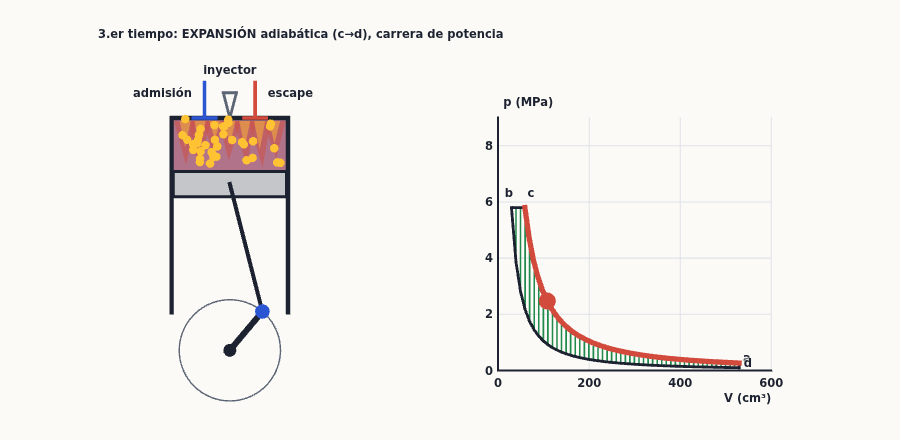
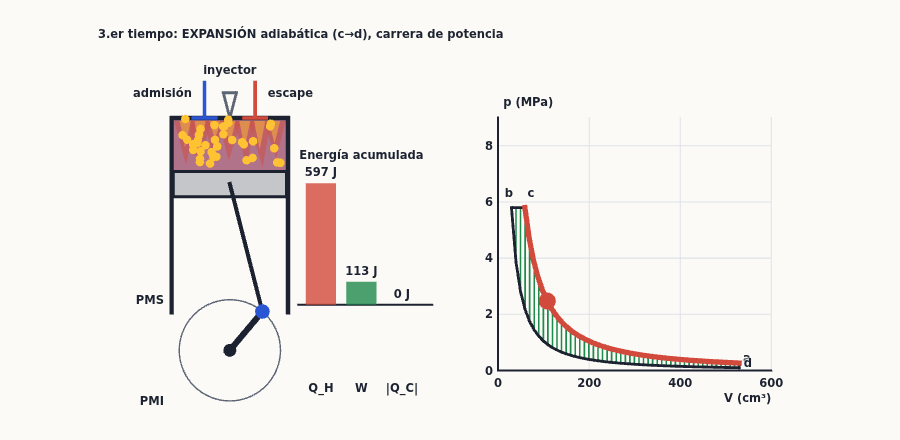
Motor Diesel: modo Otto con el mismo r y el mismo calor, barras de energía acumulada (Q_H, W, |Q_C|), régimen en rpm con potencia y par, marcas PMS/PMI
Claude-Session: https://claude.ai/code/session_013NPRw5Yt76X8T2S3CHRMJi

diff --git a/assets/escenas/motor-diesel.js b/assets/escenas/motor-diesel.js
@@ -4,26 +4,33 @@
    c→d expansión adiabática, d→a enfriamiento a volumen constante (escape; sale |QC| = n·Cv·(Td − T0), Cv = 5R/2). Tb = T0·r^(γ−1), Tc = rc·Tb, Td = T0·rc^γ.
    e = W/QH = 1 − (rc^γ − 1)/(r^(γ−1)·γ·(rc − 1)); con rc → 1 da el Otto 1 − r^(1−γ). Carnot entre T0 y Tc: 1 − T0/Tc.
    El dibujo es un mecanismo biela-manivela real (R = 1, L = 2,6): V se calcula de la posición del pistón, así que dibujo y diagrama van siempre a la par.
+   Modo Otto (selector): mismo r y el mismo calor Q_H que el Diesel, pero con la combustión a V constante en el punto muerto: Tc = Tb + Q_H/(n·Cv), pc = pb·Tc/Tb, e = 1 − r^(1−γ).
+   Barras de energía acumulada (Q_H entrado, W, |Q_C|) por integración numérica de p dV y de dQ = n·Cv·dT + p dV a lo largo del ángulo; potencia P = W·rpm/120 y par medio M = W/4π (4 tiempos).
    Ángulo del cigüeñal φ (0-720°): 0-180 admisión (p0), 180-360 compresión, 360-540 combustión (p = pb mientras V ≤ rc·Vb) y expansión, 540-560 se abre el escape
    (p cae a volumen casi constante), 560-720 escape (p0). Asas: pasador del cigüeñal (gira el motor), culata (r) y punto c del diagrama (rc). */
 Interactivos.registrar('motor-diesel', function (c) {
   var T = c.THREE, H = c.H, P = c.colores(), listo = false, clave = '';
   var gam = 1.4, Rg = 8.314, p0 = 101325, T0 = 300, Vd = 5e-4, VMAX = 600, PMAX = 9, TOPE = 2300;
-  var r = 18, rc = 2, fi = 400, rep, sR, sRc;
+  var r = 18, rc = 2, fi = 400, rep, sR, sRc, mod = 0, rpm = 2000;
   var CX = -4.3, CY = -2.3, RC = 1.0, LB = 2.6, WL = 1.15, TOPE_P = 0.25, PH = 0.5;
   var PX0 = 1.0, PW = 5.4, PY0 = -2.7, PHH = 5.0;
   var yTDC = CY + RC + LB, crownTDC = yTDC + TOPE_P, carrera = 2 * RC;
-  var fijos = [], ticks = [], eEt, eAd, eEs, eIn, eA, eB, eC, eD, eX, eY;
+  var BASE = -1.4, BX = [-2.5, -1.7, -0.9], fijos = [], ticks = [], eEt, eAd, eEs, eIn, eA, eB, eC, eD, eX, eY, ePS, ePI, eBT, eBn = [], eBv = [], barras = [];
   var NP = 36, parts = [], rnd = [], llamaE, llamaI, brillo, biela, brazo, pin, centro, pistonR, pistonB, gasR, culata, valA, valE, inyec, chorro, ciclo, actual, sombra, pto, ptoC, ptoR;
-  var l1 = c.lectura(''), l2 = c.lectura(''), l3 = c.lectura(''), l4 = c.lectura('');
+  var l1 = c.lectura(''), l2 = c.lectura(''), l3 = c.lectura(''), l4 = c.lectura(''), l5 = c.lectura('');
   var fm = function (x, d) { return x.toFixed(d).replace('.', ',').replace(/^-/, '−'); };
   function gx(V) { return PX0 + V / VMAX * PW; }
   function gy(p) { return PY0 + p / PMAX * PHH; }
   function ciclo_() {
     var Vb = Vd / (r - 1), Va = Vb * r, n = p0 * Va / (Rg * T0), pb = p0 * Math.pow(r, gam), Tb = T0 * Math.pow(r, gam - 1), Tc = rc * Tb;
     var pd = pb * Math.pow(rc / r, gam), Td = T0 * Math.pow(rc, gam), Qin = n * 3.5 * Rg * (Tc - Tb), Qout = n * 2.5 * Rg * (T0 - Td), W = Qin + Qout;
-    var e = 1 - (Math.pow(rc, gam) - 1) / (Math.pow(r, gam - 1) * gam * (rc - 1));
-    return { Vb: Vb, Va: Va, n: n, pb: pb, Tb: Tb, Tc: Tc, pd: pd, Td: Td, Qin: Qin, Qout: Qout, W: W, e: e, eO: 1 - Math.pow(r, 1 - gam), eC: 1 - T0 / Tc, Vc: rc * Vb };
+    var eD = 1 - (Math.pow(rc, gam) - 1) / (Math.pow(r, gam - 1) * gam * (rc - 1)), eO = 1 - Math.pow(r, 1 - gam);
+    var K = { Vb: Vb, Va: Va, n: n, pb: pb, pc: pb, Tb: Tb, Tc: Tc, pd: pd, Td: Td, Qin: Qin, Qout: Qout, W: W, e: eD, eOtro: eO, Vc: rc * Vb };
+    if (mod === 1) {
+      var Tc2 = Tb + Qin / (n * 2.5 * Rg), Td2 = Tc2 * Math.pow(r, 1 - gam), Qo2 = n * 2.5 * Rg * (T0 - Td2);
+      K.Tc = Tc2; K.pc = pb * Tc2 / Tb; K.Vc = Vb; K.pd = K.pc * Math.pow(r, -gam); K.Td = Td2; K.Qout = Qo2; K.W = Qin + Qo2; K.e = K.W / Qin; K.eOtro = eD;
+    }
+    K.eC = 1 - T0 / K.Tc; return K;
   }
   function hVis(rr) { return 0.5 + 0.04 * (24 - rr); }  /* altura de la cámara con el pistón arriba: exagerada para que se vea (la real sería carrera/(r − 1)) */
   function mecanismo(f) {
@@ -34,10 +41,23 @@ Interactivos.registrar('motor-diesel', function (c) {
     var m = mecanismo(f), V = K.Vb + Vd * m.xd / carrera, p, Tg, et;
     if (f < 180) { et = 0; p = p0; Tg = T0; }
     else if (f < 360) { et = 1; p = p0 * Math.pow(K.Va / V, gam); Tg = p * V / (K.n * Rg); }
-    else if (f < 540) { if (V <= K.Vc * 1.0000001) { et = 2; p = K.pb; } else { et = 3; p = K.pb * Math.pow(K.Vc / V, gam); } Tg = p * V / (K.n * Rg); }
+    else if (f < 540) {
+      if (mod === 1 && f < 372) { var V7 = K.Vb + Vd * mecanismo(372).xd / carrera; et = 2; p = K.pb + (K.pc * Math.pow(K.Vb / V7, gam) - K.pb) * (f - 360) / 12; }
+      else if (mod === 0 && V <= K.Vc * 1.0000001) { et = 2; p = K.pc; } else { et = 3; p = K.pc * Math.pow(K.Vc / V, gam); }
+      Tg = p * V / (K.n * Rg);
+    }
     else if (f < 560) { et = 4; p = K.pd + (p0 - K.pd) * (f - 540) / 20; Tg = p * V / (K.n * Rg); }
     else { et = 5; p = p0; Tg = T0; }
     return { m: m, V: V, p: p, T: Tg, et: et };
+  }
+  function acum(f1, K) {
+    var w = 0, qi = 0, qo = 0, s0 = estado(0, K), pp = s0.p, Vp = s0.V, Tp = s0.T, pet = s0.et, fs = [], f, s1, dW, dQ;
+    for (f = 1; f < f1; f++) fs.push(f); if (f1 > 0) fs.push(f1);
+    fs.forEach(function (ff) {
+      s1 = estado(ff, K); dW = (s1.p + pp) / 2 * (s1.V - Vp); dQ = K.n * 2.5 * Rg * (s1.T - Tp) + dW; w += dW;
+      if ((s1.et === 2 || pet === 2) && dQ > 0) qi += dQ; if ((s1.et === 4 || pet === 4) && dQ < 0) qo -= dQ; pet = s1.et; pp = s1.p; Vp = s1.V; Tp = s1.T;
+    });
+    return { w: w, qi: qi, qo: qo };
   }
   function rect(col, op, z) {
     var q = new T.Mesh(new T.PlaneGeometry(1, 1), new T.MeshBasicMaterial({ color: col, transparent: true, opacity: op })); q.position.z = z;
@@ -52,10 +72,11 @@ Interactivos.registrar('motor-diesel', function (c) {
   }
   function add(o) { c.scene.add(o); fijos.push(o); return o; }
   function construir() {
-    var k = P.fg + P.bg + P.S + P.W + P.L + P.A + P.acc; if (k === clave && ciclo) return; clave = k;
+    var K0 = ciclo_(); PMAX = mod === 0 ? 9 : Math.max(4, Math.ceil(K0.pc / 1e6 * 1.05 / 4) * 4); var TP = mod === 0 ? [0, 2, 4, 6, 8] : [0, PMAX / 4, PMAX / 2, 3 * PMAX / 4, PMAX];
+    var k = P.fg + P.bg + P.S + P.W + P.L + P.A + P.acc + mod + PMAX; if (k === clave && ciclo) return; clave = k;
     fijos.forEach(function (o) { c.scene.remove(o); }); fijos = [];
     c.vista(-6.8, 6.9, -3.75, 4.3); var w = 0.04, i;
-    var rej = []; [0, 200, 400, 600].forEach(function (v) { rej.push([[gx(v), PY0], [gx(v), PY0 + PHH]]); }); [0, 2, 4, 6, 8].forEach(function (v) { rej.push([[PX0, gy(v)], [PX0 + PW, gy(v)]]); });
+    var rej = []; [0, 200, 400, 600].forEach(function (v) { rej.push([[gx(v), PY0], [gx(v), PY0 + PHH]]); }); TP.forEach(function (v) { rej.push([[PX0, gy(v)], [PX0 + PW, gy(v)]]); });
     var a = add(H.cinta(T, rej, P.bd, w * 0.5)); a.position.z = -0.3;
     var b = add(H.cinta(T, [[[PX0, PY0], [PX0 + PW, PY0]], [[PX0, PY0], [PX0, PY0 + PHH]]], P.fg, w)); b.position.z = -0.2;
     var cir = []; for (i = 0; i <= 72; i++) cir.push([CX + RC * Math.sin(2 * Math.PI * i / 72), CY + RC * Math.cos(2 * Math.PI * i / 72)]);
@@ -70,15 +91,17 @@ Interactivos.registrar('motor-diesel', function (c) {
     sombra = add(H.cinta(T, [], P.L, w * 0.8)); sombra.position.z = 0.02;
     ciclo = add(H.cinta(T, [], P.fg, w * 1.4)); ciclo.position.z = 0.1; actual = add(H.cinta(T, [], P.W, w * 2.6)); actual.position.z = 0.14;
     pto = add(H.punto(T, 0, 0, w * 4.2, P.W)); pto.position.z = 0.5;
+    add(H.cinta(T, [[[-2.95, BASE], [-0.3, BASE]]], P.fg, w)).position.z = -0.2;
+    barras = [rect(P.W, 0.8, 0.05), rect(P.L, 0.8, 0.05), rect(P.S, 0.8, 0.05)];
     parts = []; for (i = 0; i < NP; i++) { var q = add(H.punto(T, 0, 0, w * 2.1, P.S)); q.position.z = 0.3; parts.push(q); }
     ticks.forEach(function (e) { e.ver(false); }); var j = 0, tx;
     [0, 200, 400, 600].forEach(function (v) { tx = ticks[j] || (ticks[j] = c.etiqueta('', 0, 0, 'c')); j++; tx.poner(fm(v, 0)); tx.mover(gx(v), PY0 - 0.25); tx.ver(true); });
-    [0, 2, 4, 6, 8].forEach(function (v) { tx = ticks[j] || (ticks[j] = c.etiqueta('', 0, 0, 'r')); j++; tx.poner(fm(v, 0)); tx.mover(PX0 - 0.1, gy(v)); tx.ver(true); });
+    TP.forEach(function (v) { tx = ticks[j] || (ticks[j] = c.etiqueta('', 0, 0, 'r')); j++; tx.poner(fm(v, 0)); tx.mover(PX0 - 0.1, gy(v)); tx.ver(true); });
     eX.poner('V (cm³)'); eX.mover(PX0 + PW, PY0 - 0.55); eY.poner('p (MPa)'); eY.mover(PX0 + 0.1, PY0 + PHH + 0.3);
   }
   function calc() {
     if (!listo) return; construir(); var K = ciclo_(), S = estado(fi, K), m = S.m, i, hmin = hVis(r), headY = crownTDC + hmin;
-    var xl = CX - WL, xr = CX + WL, x0 = CX - WL, x1 = CX + WL;
+    var pcM = K.pc / 1e6, xl = CX - WL, xr = CX + WL, x0 = CX - WL, x1 = CX + WL;
     culata.set([[[xl, -1.55], [xl, headY], [xr, headY], [xr, -1.55]]]);
     pistonR.poner(x0 + 0.03, m.crown - PH, x1 - 0.03, m.crown); pistonB.set([[[x0 + 0.03, m.crown - PH], [x0 + 0.03, m.crown], [x1 - 0.03, m.crown], [x1 - 0.03, m.crown - PH], [x0 + 0.03, m.crown - PH]]]);
     var u = Math.max(0, Math.min(1, (S.T - T0) / (TOPE - T0))), col = new T.Color(P.S).lerp(new T.Color(P.W), u);
@@ -86,11 +109,12 @@ Interactivos.registrar('motor-diesel', function (c) {
     var abA = S.et === 0 ? 0.16 : 0, abE = S.et === 5 || S.et === 4 ? 0.16 : 0;
     valA.set([[[CX - 0.5, headY + 0.7 - abA], [CX - 0.5, headY - abA]], [[CX - 0.72, headY - abA], [CX - 0.28, headY - abA]]]);
     valE.set([[[CX + 0.5, headY + 0.7 - abE], [CX + 0.5, headY - abE]], [[CX + 0.28, headY - abE], [CX + 0.72, headY - abE]]]);
-    inyec.set([[[CX - 0.13, headY + 0.5], [CX + 0.13, headY + 0.5], [CX, headY], [CX - 0.13, headY + 0.5]]]);
+    inyec.set(mod === 0 ? [[[CX - 0.13, headY + 0.5], [CX + 0.13, headY + 0.5], [CX, headY], [CX - 0.13, headY + 0.5]]] : [[[CX - 0.07, headY + 0.5], [CX + 0.07, headY + 0.5], [CX + 0.07, headY], [CX - 0.07, headY], [CX - 0.07, headY + 0.5]]]);
+    eIn.poner(mod === 0 ? 'inyector' : 'bujía');
     // llama, gases y moléculas dentro de la cámara (todo en función de φ: al girar hacia atrás se deshace)
-    var xa = x0 + 0.12, xb = x1 - 0.12, yb = m.crown + 0.08, yt = headY - 0.06, hc = headY - m.crown, fr_ = function (z) { return z - Math.floor(z); };
+    var xa = x0 + 0.12, xb = x1 - 0.12, yb = m.crown + 0.08, yt = headY - 0.06, hc = headY - m.crown, s0o = mod === 1 ? Math.min(1, (fi - 360) / 12) : 0, fr_ = function (z) { return z - Math.floor(z); };
     var cl = new T.Color(P.W), cf = new T.Color(P.S), cm = new T.Color(P.mut), wh = new T.Color('#ffffff');
-    var s0 = S.et === 2 ? (S.V - K.Vb) / (K.Vc - K.Vb) : 1, fade = S.et === 2 ? 1 : S.et === 3 ? Math.max(0, 1 - 1.5 * Math.sqrt((S.V - K.Vc) / (K.Va - K.Vc))) : 0;
+    var s0 = S.et === 2 ? (mod === 1 ? s0o : (S.V - K.Vb) / (K.Vc - K.Vb)) : 1, fade = S.et === 2 ? 1 : S.et === 3 ? Math.max(0, 1 - 1.5 * Math.sqrt((S.V - K.Vc) / (K.Va - K.Vc))) : 0;
     var tong = [], tong2 = [], NT = 7, kk, L = S.et === 2 ? 0.55 + 0.45 * s0 : 1;
     if (fade > 0) for (kk = 0; kk < NT; kk++) {
       var xk = xa + (xb - xa) * (kk + 0.5) / NT, hw = (xb - xa) / NT * 0.75, la = hc * L * (0.6 + 0.4 * rnd[kk][0]) * (1 + 0.12 * Math.sin(fi * 0.22 + kk * 2.1)), ap = Math.max(yb, yt - la);
@@ -107,44 +131,58 @@ Interactivos.registrar('motor-diesel', function (c) {
       else pc = u < 0.3 ? cf.clone() : S.et >= 2 ? new T.Color('#ffc233') : cl.clone();
       parts[i].visible = vis; parts[i].mover(px, py); parts[i].material.color.copy(pc);
     }
-    chorro.set(S.et === 2 ? [[[CX, headY - 0.02], [CX - 0.3, Math.max(m.crown + 0.05, headY - 0.38)]], [[CX, headY - 0.02], [CX, Math.max(m.crown + 0.05, headY - 0.42)]], [[CX, headY - 0.02], [CX + 0.3, Math.max(m.crown + 0.05, headY - 0.38)]]] : []);
+    chorro.set(S.et !== 2 ? [] : mod === 0 ? [[[CX, headY - 0.02], [CX - 0.3, Math.max(m.crown + 0.05, headY - 0.38)]], [[CX, headY - 0.02], [CX, Math.max(m.crown + 0.05, headY - 0.42)]], [[CX, headY - 0.02], [CX + 0.3, Math.max(m.crown + 0.05, headY - 0.38)]]] : [[[CX, headY - 0.02], [CX - 0.12, headY - 0.16], [CX + 0.12, headY - 0.26], [CX, headY - 0.42]]]);
     biela.set([[m.pin, [CX, m.yp]]]); brazo.set([[[CX, CY], m.pin]]); pin.mover(m.pin[0], m.pin[1]);
     eAd.mover(CX - 0.75, headY + 0.5); eEs.mover(CX + 0.75, headY + 0.5); eIn.mover(CX, headY + 0.95);
-    var NOM = ['1.er tiempo: ADMISIÓN (entra aire a p₀)', '2.º tiempo: COMPRESIÓN adiabática (a→b)', '3.er tiempo: INYECCIÓN y combustión a p constante (b→c)', '3.er tiempo: EXPANSIÓN adiabática (c→d), carrera de potencia', '4.º tiempo: se abre el ESCAPE (d→a), p baja a V constante', '4.º tiempo: ESCAPE (el pistón expulsa los gases)'];
+    var NOM = ['1.er tiempo: ADMISIÓN (entra aire a p₀)', '2.º tiempo: COMPRESIÓN adiabática (a→b)', (mod === 0 ? '3.er tiempo: INYECCIÓN y combustión a p constante (b→c)' : '3.er tiempo: CHISPA y combustión a V constante (b→c)'), '3.er tiempo: EXPANSIÓN adiabática (c→d), carrera de potencia', '4.º tiempo: se abre el ESCAPE (d→a), p baja a V constante', '4.º tiempo: ESCAPE (el pistón expulsa los gases)'];
     eEt.poner(NOM[S.et]); eEt.mover(CX + 1.4, 3.95);
     // diagrama pV: ciclo ideal en MPa y cm³
-    var ab = [], cd = [], hs = [], Vb = K.Vb * 1e6, Va = K.Va * 1e6, Vc = K.Vc * 1e6, pb = K.pb / 1e6;
-    for (i = 0; i <= 50; i++) { var V1 = Vb + (Va - Vb) * i / 50; ab.push([gx(V1), gy(p0 * Math.pow(Va / V1, gam) / 1e6)]); if (i % 1 === 0) { var top = V1 <= Vc ? pb : pb * Math.pow(Vc / V1, gam); hs.push([[gx(V1), gy(p0 * Math.pow(Va / V1, gam) / 1e6)], [gx(V1), gy(top)]]); } }
-    for (i = 0; i <= 50; i++) { var V2 = Vc + (Va - Vc) * i / 50; cd.push([gx(V2), gy(pb * Math.pow(Vc / V2, gam))]); }
-    var pbc = [[gx(Vb), gy(pb)], [gx(Vc), gy(pb)]], pda = [[gx(Va), gy(K.pd / 1e6)], [gx(Va), gy(p0 / 1e6)]], pad = [[gx(Vb), gy(p0 / 1e6)], [gx(Va), gy(p0 / 1e6)]];
+    var ab = [], cd = [], hs = [], Vb = K.Vb * 1e6, Va = K.Va * 1e6, Vc = K.Vc * 1e6, pb = K.pb / 1e6, pcc = K.pc / 1e6;
+    for (i = 0; i <= 50; i++) { var V1 = Vb + (Va - Vb) * i / 50; ab.push([gx(V1), gy(p0 * Math.pow(Va / V1, gam) / 1e6)]); if (i % 1 === 0) { var top = V1 <= Vc ? pcc : pcc * Math.pow(Vc / V1, gam); hs.push([[gx(V1), gy(p0 * Math.pow(Va / V1, gam) / 1e6)], [gx(V1), gy(top)]]); } }
+    for (i = 0; i <= 50; i++) { var V2 = Vc + (Va - Vc) * i / 50; cd.push([gx(V2), gy(pcc * Math.pow(Vc / V2, gam))]); }
+    var pbc = [[gx(Vb), gy(pb)], [gx(Vc), gy(pcc)]], pda = [[gx(Va), gy(K.pd / 1e6)], [gx(Va), gy(p0 / 1e6)]], pad = [[gx(Vb), gy(p0 / 1e6)], [gx(Va), gy(p0 / 1e6)]];
     ciclo.set([ab, pbc, cd, pda]); sombra.set(hs);
     actual.set(S.et === 1 ? [ab] : S.et === 2 ? [pbc] : S.et === 3 ? [cd] : S.et === 4 ? [pda] : [pad]);
     pto.mover(gx(S.V * 1e6), gy(S.p / 1e6));
-    eA.poner('a'); eA.mover(gx(Va) + 0.15, gy(p0 / 1e6) + 0.2); eB.poner('b'); eB.mover(gx(Vb) - 0.05, gy(pb) + 0.28); eC.poner('c'); eC.mover(gx(Vc) + 0.12, gy(pb) + 0.28);
+    eA.poner('a'); eA.mover(gx(Va) + 0.15, gy(p0 / 1e6) + 0.2); eB.poner('b'); eB.mover(gx(Vb) + (mod ? 0.22 : -0.05), gy(pb) + (mod ? 0.12 : 0.28)); eC.poner('c'); eC.mover(gx(Vc) + (mod ? 0.22 : 0.12), gy(pcc) + (mod ? 0 : 0.28));
     eD.poner('d'); eD.mover(gx(Va) + 0.17, gy(K.pd / 1e6));
     [eA, eB, eC, eD].forEach(function (e) { e.ver(true); });
     var ang = 0; (function () { var lo = 0, hi = 180, th, V; for (var q = 0; q < 40; q++) { th = (lo + hi) / 2; V = K.Vb + Vd * (crownTDC - (CY + RC * Math.cos(th * Math.PI / 180) + Math.sqrt(LB * LB - RC * RC * Math.pow(Math.sin(th * Math.PI / 180), 2)) + TOPE_P)) / carrera; if (V < K.Vc) lo = th; else hi = th; } ang = (lo + hi) / 2; })();
     l1('Cigüeñal φ = ' + fm(fi, 0) + '° de 720°   ·   p = ' + fm(S.p / 1e6, 2) + ' MPa   ·   V = ' + fm(S.V * 1e6, 0) + ' cm³   ·   T del aire = ' + fm(S.T, 0) + ' K');
-    l2('Compresión: V_b = ' + fm(Vb, 1) + ' cm³ (r = ' + fm(r, 1) + '), T_b = ' + fm(K.Tb, 0) + ' K, p_b = ' + fm(pb, 2) + ' MPa  ·  la inyección dura hasta V_c = r_c·V_b = ' + fm(Vc, 1) + ' cm³ (' + fm(ang, 0) + '° tras el punto muerto), T_c = ' + fm(K.Tc, 0) + ' K');
-    l3('Calor que entra (b→c, isóbara) Q_H = ' + fm(K.Qin, 0) + ' J  ·  calor que sale (d→a, isócora) |Q_C| = ' + fm(-K.Qout, 0) + ' J  ·  trabajo por ciclo W = ' + fm(K.W, 0) + ' J (el área sombreada)');
+    l2('Compresión: V_b = ' + fm(Vb, 1) + ' cm³ (r = ' + fm(r, 1) + '), T_b = ' + fm(K.Tb, 0) + ' K, p_b = ' + fm(pb, 2) + ' MPa  ·  ' + (mod === 0 ? 'la inyección dura hasta V_c = r_c·V_b = ' + fm(Vc, 1) + ' cm³ (' + fm(ang, 0) + '° tras el punto muerto), T_c = ' + fm(K.Tc, 0) + ' K'
+      : 'la chispa salta en el punto muerto y quema a V constante: T_c = ' + fm(K.Tc, 0) + ' K, p_c = ' + fm(pcc, 2) + ' MPa (mismo calor Q_H que el Diesel)'));
+    l3('Calor que entra (b→c, ' + (mod === 0 ? 'isóbara' : 'isócora') + ') Q_H = ' + fm(K.Qin, 0) + ' J  ·  calor que sale (d→a, isócora) |Q_C| = ' + fm(-K.Qout, 0) + ' J  ·  trabajo por ciclo W = ' + fm(K.W, 0) + ' J (el área sombreada)');
     var ok = K.e >= 0.6 && K.Tc <= 2000;
-    l4('Eficiencia e = W/Q_H = ' + fm(100 * K.e, 1) + ' %  (Otto con el mismo r: ' + fm(100 * K.eO, 1) + ' %; Carnot entre 300 K y T_c: ' + fm(100 * K.eC, 1) + ' %)   ·   RETO e ≥ 60 % con T_c ≤ 2000 K: ' + (ok ? '✔ conseguido' : e_(K)));
+    l4('Eficiencia e = W/Q_H = ' + fm(100 * K.e, 1) + ' %  (' + (mod === 0 ? 'Otto con el mismo r: ' : 'Diesel con el mismo r y r_c: ') + fm(100 * K.eOtro, 1) + ' %; Carnot entre 300 K y T_c: ' + fm(100 * K.eC, 1) + ' %)   ·   RETO e ≥ 60 % con T_c ≤ 2000 K: ' + (ok ? '✔ conseguido' : e_(K)));
+    l5('A ' + fm(rpm, 0) + ' rpm (un ciclo cada 2 vueltas): potencia P = W·rpm/120 = ' + fm(K.W * rpm / 120 / 1000, 1) + ' kW (' + fm(K.W * rpm / 120 / 735.5, 1) + ' CV) y par medio M = W/4π = ' + fm(K.W / (4 * Math.PI), 1) + ' N·m   ·   con el mismo combustible el otro motor da W = ' + fm(K.eOtro * K.Qin, 0) + ' J   (en pantalla gira en cámara lenta)');
+    // barras de energía acumulada
+    var AC = acum(fi, K), sc = 2.4 / Math.max(K.Qin, 1), vals = [AC.qi, AC.w, AC.qo], nom = ['Q_H', 'W', '|Q_C|'];
+    for (i = 0; i < 3; i++) {
+      var yv = BASE + vals[i] * sc; barras[i].poner(BX[i] - 0.3, Math.min(BASE, yv), BX[i] + 0.3, Math.max(BASE, yv));
+      eBn[i].poner(nom[i]); eBn[i].mover(BX[i], -3.05); eBv[i].poner(fm(vals[i], 0) + ' J'); eBv[i].mover(BX[i], Math.max(BASE, yv) + 0.22);
+    }
+    eBT.poner('Energía acumulada'); eBT.mover(-1.7, 1.55);
+    ePS.poner('PMS'); ePS.mover(CX - WL - 0.15, CY + RC); ePI.poner('PMI'); ePI.mover(CX - WL - 0.15, CY - RC);
   }
   function e_(K) { return '✘ ' + (K.e < 0.6 ? 'falta eficiencia (sube r o baja r_c)' : 'demasiado caliente (baja r_c o r)'); }
+  c.selector('Motor', ['Diesel (encendido por compresión, inyección a p constante)', 'Otto (gasolina, chispa): mismo r y mismo calor Q_H'], 0, function (i) { mod = i; if (listo) { clave = ''; calc(); c.pedir(); } });
+  var sRpm = c.slider('Régimen del motor (rpm)', 800, 4000, 100, rpm, function (v) { rpm = v; calc(); }, function (v) { return fm(v, 0) + ' rpm'; });
   sR = c.slider('Razón de compresión r = Va/Vb', 10, 24, 0.5, r, function (v) { r = v; calc(); }, function (v) { return fm(v, 1); });
-  sRc = c.slider('Razón de corte r_c = Vc/Vb (cuánto dura la inyección)', 1.1, 4, 0.05, rc, function (v) { rc = v; calc(); }, function (v) { return fm(v, 2); });
+  sRc = c.slider('Razón de corte r_c = Vc/Vb (duración de la inyección; en el Otto fija el calor Q_H)', 1.1, 4, 0.05, rc, function (v) { rc = v; calc(); }, function (v) { return fm(v, 2); });
   rep = c.reproductor({ max: 720, valor: fi, paso: 1, vel: 160, ciclico: true, etiqueta: 'Ángulo del cigüeñal', fmt: function (v) { return 'φ = ' + Math.round(v) + '°'; }, cb: function (v) { fi = v; calc(); } });
   c.agarres([
     { titulo: 'Gira el cigüeñal arrastrando el círculo: mueves el motor a mano', x: function () { return mecanismo(fi).pin; },
       mover: function (wx, wy) { var t = Math.atan2(wx - CX, wy - CY) * 180 / Math.PI; if (t < 0) t += 360; var d = ((t - (fi % 360) + 540) % 360) - 180; rep.pause(); rep.poner((((fi + d) % 720) + 720) % 720); } },
     { titulo: 'Sube o baja la culata: cambia la razón de compresión r', x: function () { return [CX + WL, crownTDC + hVis(r)]; },
       mover: function (wx, wy) { c.fijar(sR, 24 - (wy - crownTDC - 0.5) / 0.04); } },
-    { titulo: 'Arrastra c hacia la derecha: la inyección dura más (razón de corte)', x: function () { var K = ciclo_(); return [gx(K.Vc * 1e6), gy(K.pb / 1e6)]; },
+    { titulo: 'Arrastra c hacia la derecha: la inyección dura más (razón de corte)', ver: function () { return mod === 0; }, x: function () { var K = ciclo_(); return [gx(K.Vc * 1e6), gy(K.pc / 1e6)]; },
       mover: function (wx) { c.fijar(sRc, ((wx - PX0) / PW * VMAX) / (ciclo_().Vb * 1e6)); } }
   ]);
   eEt = c.etiqueta('', 0, 0, 'c'); eAd = c.etiqueta('admisión', 0, 0, 'r'); eEs = c.etiqueta('escape', 0, 0, 'l'); eIn = c.etiqueta('inyector', 0, 0, 'c');
   eX = c.etiqueta('', 0, 0, 'r'); eY = c.etiqueta('', 0, 0, 'l'); eA = c.etiqueta('', 0, 0, 'c'); eB = c.etiqueta('', 0, 0, 'c'); eC = c.etiqueta('', 0, 0, 'c'); eD = c.etiqueta('', 0, 0, 'c');
-  c.leyenda([['var(--fg)', 'ciclo Diesel ideal a→b→c→d→a (la línea a p₀ de admisión y escape se anula)', 'linea'], ['var(--warn-b)', 'proceso en curso / estado del aire (más caliente = más naranja)', 'punto'], ['var(--X)', 'área = trabajo neto W', 'area'], ['var(--warn-b)', 'llama de la combustión; puntos = moléculas de aire (azul entra, gris sale)', 'area'], ['var(--U)', 'aire frío y válvula de admisión', 'area']]);
+  ePS = c.etiqueta('', 0, 0, 'r'); ePI = c.etiqueta('', 0, 0, 'r'); eBT = c.etiqueta('', 0, 0, 'c');
+  for (var q = 0; q < 3; q++) { eBn.push(c.etiqueta('', 0, 0, 'c')); eBv.push(c.etiqueta('', 0, 0, 'c')); }
+  c.leyenda([['var(--fg)', 'ciclo ideal a→b→c→d→a (la línea a p₀ de admisión y escape se anula)', 'linea'], ['var(--warn-b)', 'proceso en curso / estado del aire (más caliente = más naranja)', 'punto'], ['var(--X)', 'área = trabajo neto W (y barra verde: trabajo acumulado, negativo al comprimir)', 'area'], ['var(--warn-b)', 'llama de la combustión; puntos = moléculas de aire (azul entra, gris sale)', 'area'], ['var(--U)', 'aire frío y válvula de admisión', 'area']]);
   c.alCambiarTema(function (p) { P = p; c.renderer.setClearColor(p.bg); if (!listo) return; clave = ''; calc(); });
   listo = true; calc();
 });

diff --git a/temas/tema_20_segunda_ley_termodinamica.html b/temas/tema_20_segunda_ley_termodinamica.html
@@ -170,7 +170,7 @@
 </figure>
 <figure class="interactivo" data-escena="motor-diesel" data-params='{"dim":2,"marcas":false}' aria-label="Interactivo: motor Diesel de cuatro tiempos con cilindro, pistón, biela y cigüeñal enlazados al ciclo en el diagrama pV; se gira el cigüeñal a mano o con el reproductor y se cambian la razón de compresión y la razón de corte">
   <img class="int-static" src="../assets/img/int_motor-diesel.png" alt="Interactivo: motor Diesel de cuatro tiempos con cilindro, pistón, biela y cigüeñal enlazados al ciclo en el diagrama pV; se gira el cigüeñal a mano o con el reproductor y se cambian la razón de compresión y la razón de corte">
-  <figcaption><b>Juega con el motor Diesel.</b> Pulsa ▶ o <b>agarra el círculo del cigüeñal y gíralo a mano</b>: pistón, válvulas, inyector y el punto del diagrama pV se mueven a la vez (el aire se pone naranja al calentarse; ves entrar el aire frío en azul, la <b>llama</b> de la combustión con las moléculas calientes agitándose y los gases salir por el escape). Cambia la <b>razón de compresión</b> $r=V_a/V_b$ (deslizador o <b>sube y baja la culata</b>; el hueco sobre el pistón está exagerado para que se vea) y la <b>razón de corte</b> $r_c=V_c/V_b$, que es lo que dura la inyección (deslizador o <b>arrastra el punto c</b>). <b>Observa:</b> (1) con $r=18$ y $r_c=2$: $T_b=953$ K sin ninguna chispa, $T_c=1907$ K, $Q_H=597$ J, $|Q_C|=220$ J, $W=377$ J y $e=63{,}2\,\%$; (2) el tramo $b\to c$ es a <b>presión constante</b> (el pistón ya baja mientras se quema el gasóleo) y $d\to a$, a <b>volumen constante</b> (se abre el escape); (3) <b>sube $r_c$ a 4</b>: más combustible, $T_c$ se dispara a 3813 K pero $e$ baja a $55{,}3\,\%$; con $r_c=1{,}1$ (inyección casi instantánea) se acerca al Otto, $67{,}9\,\%$ frente a $68{,}5\,\%$ del Otto con el mismo $r$; (4) <b>con el mismo $r$ el Otto rinde más</b>, pero el Diesel puede subir $r$ porque comprime solo aire: con $r=24$ y $r_c=2$, $e=67{,}2\,\%$; (5) la eficiencia de Carnot entre 300 K y $T_c$ (84 % con $r=18$) es siempre una cota superior. <b>Reto:</b> consigue $e\ge60\,\%$ sin pasar de $T_c=2000$ K (el material no lo aguanta). Fórmula: $e=1-\dfrac{r_c^{\gamma}-1}{r^{\gamma-1}\,\gamma\,(r_c-1)}$, con $\gamma=1{,}4$, $V_d=500$ cm³ y aire inicial a 300 K y 1 atm. <span class="src" data-l="P" data-ref="Interactivo propio de U §20.3, pp. 652-654 (ciclo Diesel)">P</span></figcaption>
+  <figcaption><b>Juega con el motor Diesel.</b> Pulsa ▶ o <b>agarra el círculo del cigüeñal y gíralo a mano</b>: pistón, válvulas, inyector y el punto del diagrama pV se mueven a la vez (el aire se pone naranja al calentarse; ves entrar el aire frío en azul, la <b>llama</b> de la combustión con las moléculas calientes agitándose y los gases salir por el escape). Cambia la <b>razón de compresión</b> $r=V_a/V_b$ (deslizador o <b>sube y baja la culata</b>; el hueco sobre el pistón está exagerado para que se vea) y la <b>razón de corte</b> $r_c=V_c/V_b$, que es lo que dura la inyección (deslizador o <b>arrastra el punto c</b>). <b>Observa:</b> (1) con $r=18$ y $r_c=2$: $T_b=953$ K sin ninguna chispa, $T_c=1907$ K, $Q_H=597$ J, $|Q_C|=220$ J, $W=377$ J y $e=63{,}2\,\%$; (2) el tramo $b\to c$ es a <b>presión constante</b> (el pistón ya baja mientras se quema el gasóleo) y $d\to a$, a <b>volumen constante</b> (se abre el escape); (3) <b>sube $r_c$ a 4</b>: más combustible, $T_c$ se dispara a 3813 K pero $e$ baja a $55{,}3\,\%$; con $r_c=1{,}1$ (inyección casi instantánea) se acerca al Otto, $67{,}9\,\%$ frente a $68{,}5\,\%$ del Otto con el mismo $r$; (4) <b>con el mismo $r$ el Otto rinde más</b>, pero el Diesel puede subir $r$ porque comprime solo aire: con $r=24$ y $r_c=2$, $e=67{,}2\,\%$; (5) la eficiencia de Carnot entre 300 K y $T_c$ (84 % con $r=18$) es siempre una cota superior. (6) el selector <b>Otto</b> dibuja la gasolina con el mismo $r$ y el <b>mismo calor $Q_H$</b>: la combustión es a volumen constante (chispa en el punto muerto), $T_c=2288$ K, $p_c=13{,}9$ MPa, $W=409$ J y $e=1-r^{1-\gamma}=68{,}5\,\%$, más trabajo que el Diesel con el mismo combustible pero con temperaturas y presiones mucho mayores; (7) las <b>barras de energía acumulada</b> ($Q_H$, $W$ y $|Q_C|$) muestran que $W$ es negativo mientras se comprime y que al cerrar el ciclo $W=Q_H-|Q_C|$; (8) con el régimen en rpm, $P=W\,n/120$ (un ciclo cada dos vueltas): a 2000 rpm el Diesel de arriba da 6,3 kW y un par medio $M=W/4\pi=30$ N·m. <b>Reto:</b> consigue $e\ge60\,\%$ sin pasar de $T_c=2000$ K (el material no lo aguanta). Fórmula: $e=1-\dfrac{r_c^{\gamma}-1}{r^{\gamma-1}\,\gamma\,(r_c-1)}$, con $\gamma=1{,}4$, $V_d=500$ cm³ y aire inicial a 300 K y 1 atm. <span class="src" data-l="P" data-ref="Interactivo propio de U §20.3, pp. 652-654 (ciclo Diesel)">P</span></figcaption>
 </figure>
 <details class="check"><summary>✍ Comprueba que lo has entendido (2 min)</summary>
 <ol>

diff --git a/contenido/tema_20/partes/motor-diesel.html b/contenido/tema_20/partes/motor-diesel.html
@@ -1,4 +1,4 @@
 <figure class="interactivo" data-escena="motor-diesel" data-params='{"dim":2,"marcas":false}' aria-label="Interactivo: motor Diesel de cuatro tiempos con cilindro, pistón, biela y cigüeñal enlazados al ciclo en el diagrama pV; se gira el cigüeñal a mano o con el reproductor y se cambian la razón de compresión y la razón de corte">
   <img class="int-static" src="../assets/img/int_motor-diesel.png" alt="Interactivo: motor Diesel de cuatro tiempos con cilindro, pistón, biela y cigüeñal enlazados al ciclo en el diagrama pV; se gira el cigüeñal a mano o con el reproductor y se cambian la razón de compresión y la razón de corte">
-  <figcaption><b>Juega con el motor Diesel.</b> Pulsa ▶ o <b>agarra el círculo del cigüeñal y gíralo a mano</b>: pistón, válvulas, inyector y el punto del diagrama pV se mueven a la vez (el aire se pone naranja al calentarse; ves entrar el aire frío en azul, la <b>llama</b> de la combustión con las moléculas calientes agitándose y los gases salir por el escape). Cambia la <b>razón de compresión</b> $r=V_a/V_b$ (deslizador o <b>sube y baja la culata</b>; el hueco sobre el pistón está exagerado para que se vea) y la <b>razón de corte</b> $r_c=V_c/V_b$, que es lo que dura la inyección (deslizador o <b>arrastra el punto c</b>). <b>Observa:</b> (1) con $r=18$ y $r_c=2$: $T_b=953$ K sin ninguna chispa, $T_c=1907$ K, $Q_H=597$ J, $|Q_C|=220$ J, $W=377$ J y $e=63{,}2\,\%$; (2) el tramo $b\to c$ es a <b>presión constante</b> (el pistón ya baja mientras se quema el gasóleo) y $d\to a$, a <b>volumen constante</b> (se abre el escape); (3) <b>sube $r_c$ a 4</b>: más combustible, $T_c$ se dispara a 3813 K pero $e$ baja a $55{,}3\,\%$; con $r_c=1{,}1$ (inyección casi instantánea) se acerca al Otto, $67{,}9\,\%$ frente a $68{,}5\,\%$ del Otto con el mismo $r$; (4) <b>con el mismo $r$ el Otto rinde más</b>, pero el Diesel puede subir $r$ porque comprime solo aire: con $r=24$ y $r_c=2$, $e=67{,}2\,\%$; (5) la eficiencia de Carnot entre 300 K y $T_c$ (84 % con $r=18$) es siempre una cota superior. <b>Reto:</b> consigue $e\ge60\,\%$ sin pasar de $T_c=2000$ K (el material no lo aguanta). Fórmula: $e=1-\dfrac{r_c^{\gamma}-1}{r^{\gamma-1}\,\gamma\,(r_c-1)}$, con $\gamma=1{,}4$, $V_d=500$ cm³ y aire inicial a 300 K y 1 atm. <span class="src" data-l="P" data-ref="Interactivo propio de U §20.3, pp. 652-654 (ciclo Diesel)">P</span></figcaption>
+  <figcaption><b>Juega con el motor Diesel.</b> Pulsa ▶ o <b>agarra el círculo del cigüeñal y gíralo a mano</b>: pistón, válvulas, inyector y el punto del diagrama pV se mueven a la vez (el aire se pone naranja al calentarse; ves entrar el aire frío en azul, la <b>llama</b> de la combustión con las moléculas calientes agitándose y los gases salir por el escape). Cambia la <b>razón de compresión</b> $r=V_a/V_b$ (deslizador o <b>sube y baja la culata</b>; el hueco sobre el pistón está exagerado para que se vea) y la <b>razón de corte</b> $r_c=V_c/V_b$, que es lo que dura la inyección (deslizador o <b>arrastra el punto c</b>). <b>Observa:</b> (1) con $r=18$ y $r_c=2$: $T_b=953$ K sin ninguna chispa, $T_c=1907$ K, $Q_H=597$ J, $|Q_C|=220$ J, $W=377$ J y $e=63{,}2\,\%$; (2) el tramo $b\to c$ es a <b>presión constante</b> (el pistón ya baja mientras se quema el gasóleo) y $d\to a$, a <b>volumen constante</b> (se abre el escape); (3) <b>sube $r_c$ a 4</b>: más combustible, $T_c$ se dispara a 3813 K pero $e$ baja a $55{,}3\,\%$; con $r_c=1{,}1$ (inyección casi instantánea) se acerca al Otto, $67{,}9\,\%$ frente a $68{,}5\,\%$ del Otto con el mismo $r$; (4) <b>con el mismo $r$ el Otto rinde más</b>, pero el Diesel puede subir $r$ porque comprime solo aire: con $r=24$ y $r_c=2$, $e=67{,}2\,\%$; (5) la eficiencia de Carnot entre 300 K y $T_c$ (84 % con $r=18$) es siempre una cota superior. (6) el selector <b>Otto</b> dibuja la gasolina con el mismo $r$ y el <b>mismo calor $Q_H$</b>: la combustión es a volumen constante (chispa en el punto muerto), $T_c=2288$ K, $p_c=13{,}9$ MPa, $W=409$ J y $e=1-r^{1-\gamma}=68{,}5\,\%$, más trabajo que el Diesel con el mismo combustible pero con temperaturas y presiones mucho mayores; (7) las <b>barras de energía acumulada</b> ($Q_H$, $W$ y $|Q_C|$) muestran que $W$ es negativo mientras se comprime y que al cerrar el ciclo $W=Q_H-|Q_C|$; (8) con el régimen en rpm, $P=W\,n/120$ (un ciclo cada dos vueltas): a 2000 rpm el Diesel de arriba da 6,3 kW y un par medio $M=W/4\pi=30$ N·m. <b>Reto:</b> consigue $e\ge60\,\%$ sin pasar de $T_c=2000$ K (el material no lo aguanta). Fórmula: $e=1-\dfrac{r_c^{\gamma}-1}{r^{\gamma-1}\,\gamma\,(r_c-1)}$, con $\gamma=1{,}4$, $V_d=500$ cm³ y aire inicial a 300 K y 1 atm. <span class="src" data-l="P" data-ref="Interactivo propio de U §20.3, pp. 652-654 (ciclo Diesel)">P</span></figcaption>
 </figure>

diff --git a/cambios.html b/cambios.html
@@ -20,8 +20,9 @@ main.cambios h2{font-size:1.05rem;margin:1.8em 0 .3em;padding-top:.5em;border-to
 <div class="topbar"><div class="in"><a href="index.html">← Índice de temas</a></div></div>
 <main class="cambios">
 <h1>Cambios</h1>
-<p>Historial de cambios del proyecto (generado desde git el 2026-11-22; 139 cambios). Cada tema lleva además su fecha de última revisión en el pie.</p>
+<p>Historial de cambios del proyecto (generado desde git el 2026-11-22; 140 cambios). Cada tema lleva además su fecha de última revisión en el pie.</p>
 <h2>2026-11-22</h2>
+<article class="cmb"><b>Motor Diesel: las moléculas y la llama vibran más despacio y con menos amplitud</b><small>f6dc91b</small></article>
 <article class="cmb"><b>Motor Diesel: llama y moléculas dentro del cilindro (aire azul que entra, combustión con llama, gases que salen por el escape), cámara y cilindro más grandes</b><small>b08ddf7</small></article>
 <article class="cmb"><b><span class="chip">Tema 20</span> Tema 20: interactivo del motor Diesel de 4 tiempos (cilindro, biela y cigüeñal enlazados al ciclo pV; gira el cigüeñal a mano, sube la culata para cambiar r, arrastra c para cambiar la razón de corte; reto e ≥ 60 % con T ≤ 2000 K)</b><small>9935280</small></article>
 <article class="cmb"><b>Asas arrastrables en 19 interactivos más (rampas, escalera, potencial, resorte, cable, Doppler, ondas, amortiguadas, gas ideal, Maxwell, dilatación, entropía, rodadura, momento angular…); quedan solo los 3D y 5 escenas sin asa</b><small>58d6c60</small></article>
